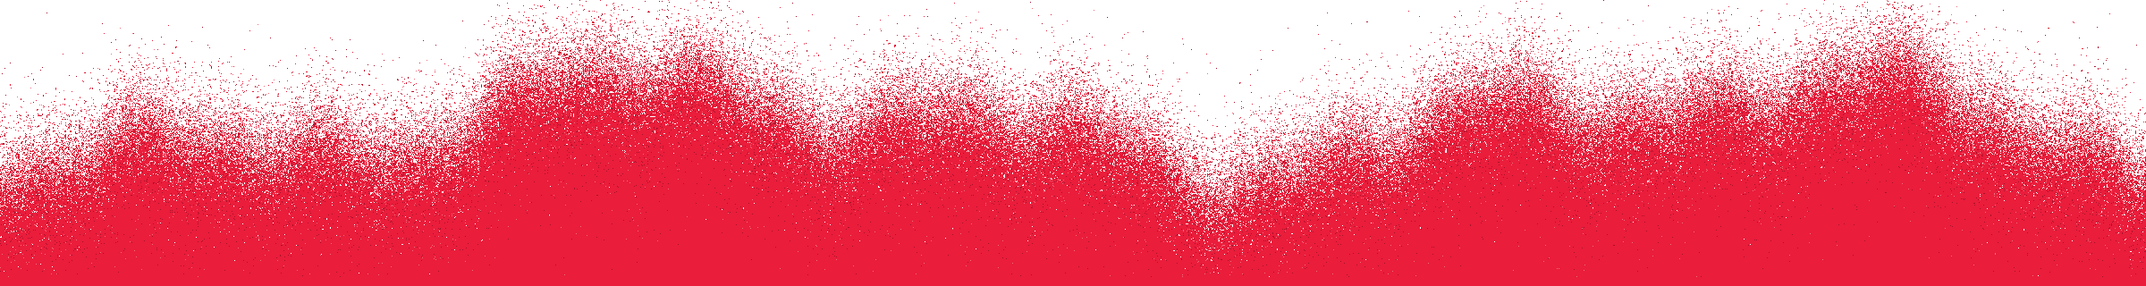
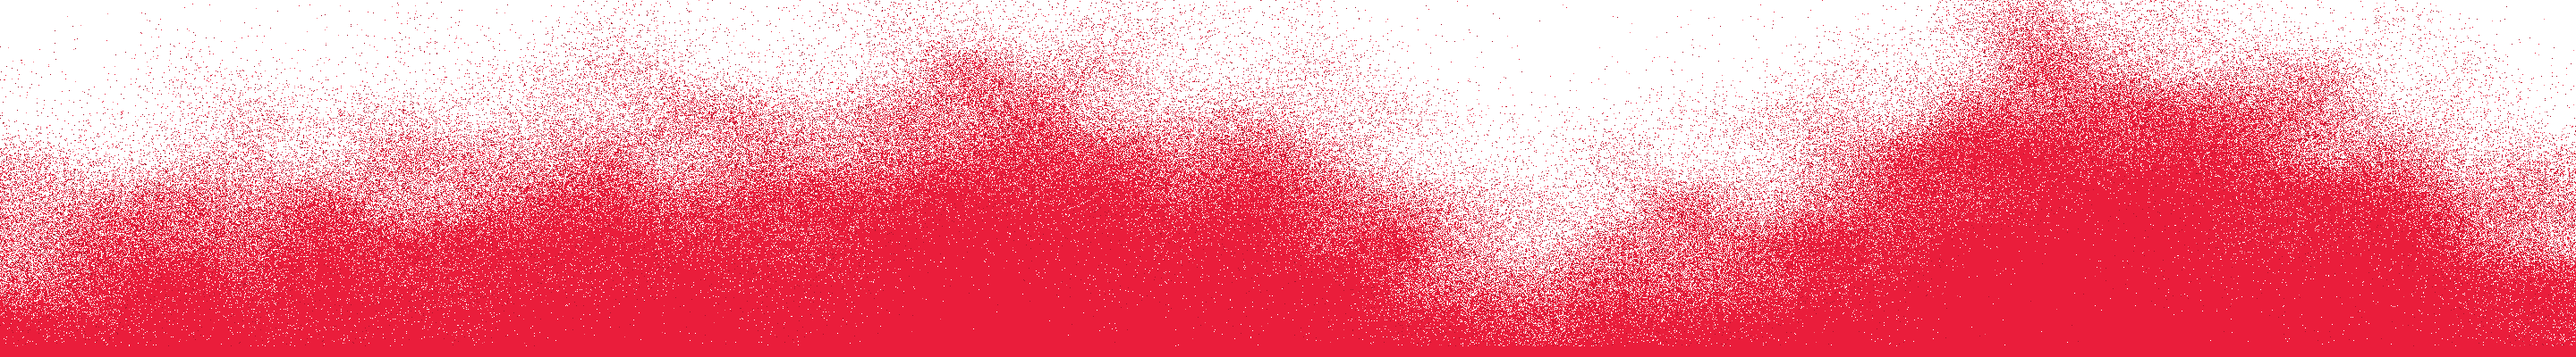
Hero: solo 'Best fuck'n pizzas' (vector) al tamaño del título anterior; aerosol con ondas grandes y grano fino
Claude-Session: https://claude.ai/code/session_014MYiZw9DCFwXijDfbvyeKp

diff --git a/assets/css/main.css b/assets/css/main.css
@@ -235,10 +235,9 @@ a { color: inherit; }
 }
 .sr-only { position: absolute; width: 1px; height: 1px; overflow: hidden; clip-path: inset(50%); white-space: nowrap; }
 .hero__titulo { display: flex; align-items: center; gap: clamp(8px, 1.5vw, 24px); margin: 0; }
-.hero__best { width: clamp(80px, 8.5vw, 130px); height: auto; }
-.hero__spicy { width: clamp(220px, 25vw, 380px); height: auto; filter: drop-shadow(0 6px 18px rgba(0, 0, 0, .45)); }
+/* Solo "Best fuck'n pizzas", al tamaño que tenía "Spicy Honey" (vectorizado para que no se pixele) */
+.hero__best { width: clamp(220px, 25vw, 380px); height: auto; filter: drop-shadow(0 6px 18px rgba(0, 0, 0, .45)); }
 .hero__titulo img { animation: titulo-entra .6s cubic-bezier(.3, 1.4, .5, 1) calc(var(--intro-wait) + .5s) both; }
-.hero__best { animation-delay: calc(var(--intro-wait) + .8s) !important; }
 @keyframes titulo-entra {
   0% { transform: scale(.6) rotate(-6deg); opacity: 0; }
   100% { transform: none; opacity: 1; }
@@ -273,7 +272,7 @@ a { color: inherit; }
 /* Cambio de hero a sección: el rojo entra como pintura en aerosol (borde irregular que se deshace en motas) */
 .aerosol {
   position: absolute; left: 0; right: 0; bottom: 100%; margin-bottom: -1px;
-  height: clamp(90px, 12vw, 180px);
+  height: clamp(110px, 14vw, 200px);
   background: url("../img/aerosol.webp") 0 100% / auto 100% repeat-x;
 }
 .manifesto__inner {
@@ -394,8 +393,7 @@ a { color: inherit; }
   .hero { padding-bottom: 0; }
   .hero__main { align-self: start; min-height: 480px; padding: 16px 0 0; }
   .hero__titulo { justify-content: flex-start; }
-  .hero__best { width: 72px; }
-  .hero__spicy { width: 190px; }
+  .hero__best { width: 190px; }
   .hero__pizza {
     top: auto; bottom: 0; left: 6%; height: 560px;
     -webkit-mask-image: linear-gradient(to bottom, transparent, #000 22%);

diff --git a/index.html b/index.html
@@ -72,8 +72,7 @@
       <div class="hero__main">
         <h1 class="sr-only">Laymon no es solo comida, es fuego, actitud y buena música.</h1>
         <p class="hero__titulo">
-          <img class="hero__best" src="assets/img/hero/best-pizzas.webp" width="289" height="310" alt="Best fuck'n pizzas:">
-          <img class="hero__spicy" src="assets/img/hero/spicy-honey.webp" width="872" height="818" alt="Spicy Honey">
+          <img class="hero__best" src="assets/img/hero/best-pizzas.svg" width="289" height="310" alt="Best fuck'n pizzas">
         </p>
       </div>
     </section>
